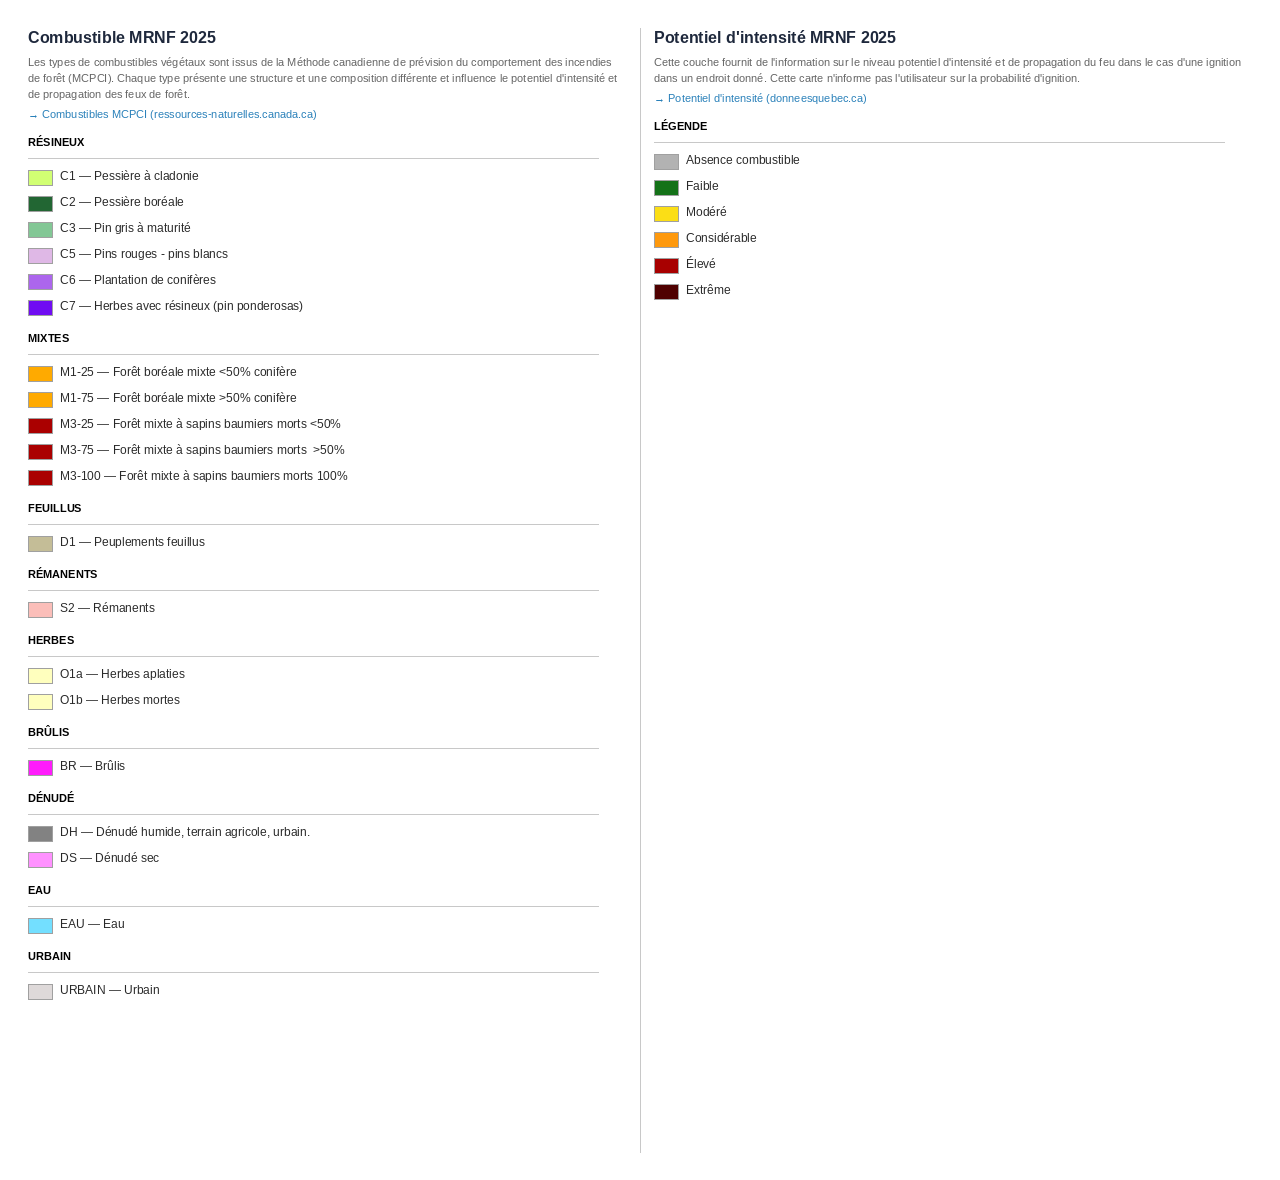
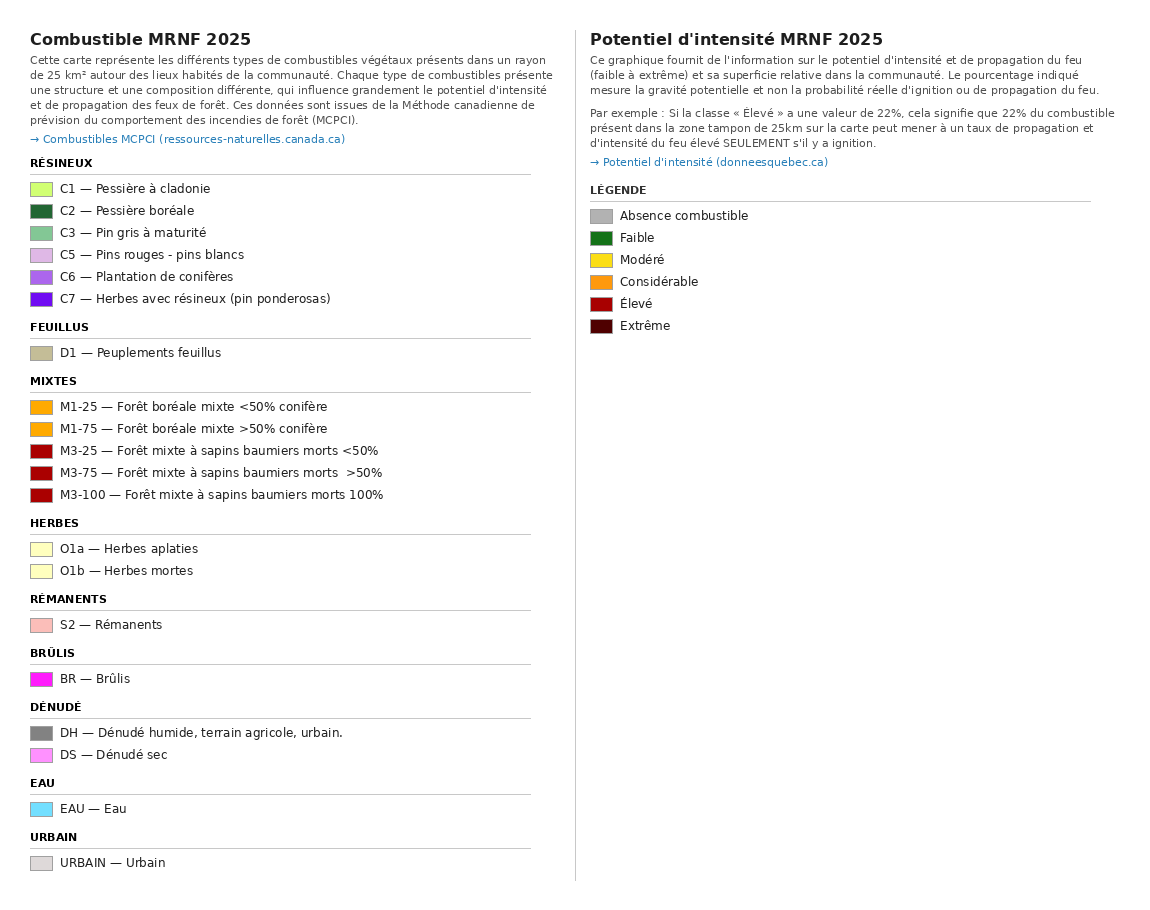
maj introduction et legende fiche communaute

Changed region(s): [[0.0, 0.0, 0.9739, 0.9538]]

diff --git a/index.html b/index.html
@@ -304,15 +304,16 @@
     }
     #btn-download:hover { background: rgba(255,255,255,0.35); }
 
-    /* Bouton légende dans le modal communauté */
-    #btn-legende-modal {
+    /* Bouton légende dans les modals MRC et communauté */
+    #btn-legende-modal-mrc, #btn-legende-modal {
       background: #f1c40f; border: 2px solid #d4ac0d;
       border-radius: 5px; color: #1a252f; font-family: 'Oswald', sans-serif;
       font-size: 14px; font-weight: 700; letter-spacing: 0.6px;
-      padding: 7px 16px; cursor: pointer;
+      padding: 0 16px; cursor: pointer;
       text-decoration: none; transition: background 0.15s; white-space: nowrap;
+      align-self: stretch; display: inline-flex; align-items: center;
     }
-    #btn-legende-modal:hover { background: #d4ac0d; }
+    #btn-legende-modal-mrc:hover, #btn-legende-modal:hover { background: #d4ac0d; }
 
     #btn-close-modal {
       background: none; border: none; color: rgba(255,255,255,0.8);
@@ -338,6 +339,40 @@
       display: none; font-family: 'Source Sans 3', sans-serif;
       color: var(--text-muted); font-size: 13px; text-align: center; padding: 20px;
     }
+
+    /* ── Modal légende MRC ── */
+    #modal-legende-mrc {
+      display: none; position: fixed; inset: 0; z-index: 500;
+      background: rgba(0,0,0,0.65);
+      align-items: center; justify-content: center;
+    }
+    #modal-legende-mrc.open { display: flex; }
+    #modal-legende-mrc-box {
+      background: #fff; border-radius: 10px;
+      width: min(90vw, 560px);
+      display: flex; flex-direction: column;
+      box-shadow: 0 16px 60px rgba(0,0,0,0.3); overflow: hidden;
+    }
+    #modal-legende-mrc-header {
+      display: flex; align-items: center; justify-content: space-between;
+      padding: 12px 16px; background: #2C3E50; flex-shrink: 0;
+    }
+    #modal-legende-mrc-header .ml-title {
+      font-family: 'Oswald', sans-serif; font-size: 14px;
+      letter-spacing: 1px; color: #fff; font-weight: 700; text-transform: uppercase;
+    }
+    #btn-close-legende-mrc {
+      background: none; border: none; color: rgba(255,255,255,0.8);
+      font-size: 20px; cursor: pointer; line-height: 1; padding: 0 4px;
+    }
+    #btn-close-legende-mrc:hover { color: #fff; }
+    #modal-legende-mrc-body {
+      padding: 20px 24px;
+      font-family: 'Source Sans 3', sans-serif; font-size: 21px;
+      line-height: 1.6; color: #333;
+    }
+    #modal-legende-mrc-body p { margin-bottom: 12px; }
+    #modal-legende-mrc-body p:last-child { margin-bottom: 0; }
 
     /* ── Modal légende HTML ── */
     #modal-legende-box {
@@ -449,6 +484,21 @@
     }
     #btn-fermer-popup:hover { background: #1a252f; }
 
+    /* Émulation visuelle du bouton Voir la fiche MRC dans le popup */
+    .btn-mock-mrc {
+      display: inline-block;
+      background: #4a7c4e; color: #fff; border-radius: 6px;
+      font-family: 'Oswald', sans-serif; font-size: 0.85em;
+      letter-spacing: 1px; text-transform: uppercase;
+      padding: 3px 10px; vertical-align: middle;
+    }
+    /* Lien onglet dans le popup */
+    .lien-onglet {
+      color: var(--accent); font-weight: 600; cursor: pointer;
+      text-decoration: underline;
+    }
+    .lien-onglet:hover { color: var(--accent-dark); }
+
     /* Bouton Instructions (pleine largeur dans le panneau) */
     #btn-info {
       width: 100%; background: #2C3E50; border: none; border-radius: 6px;
@@ -495,10 +545,12 @@
       <p> <strong>Les FICHES COMMUNAUTÉ</strong> : la composition en combustible et l’évaluation du potentiel d’intensité et de propagation des feux de forêt à proximité des communautés. </p>
       <br>
       <p><strong><u>INSTRUCTIONS</u></strong></p>
-      <p> Pour consulter les fiches à l’échelle des MRC, cliquez directement sur une MRC dans la carte ou sélectionnez-la dans le menu déroulant « MRC ». Un bouton <strong>« Voir la fiche MRC »</strong> apparaîtra. </p>
-      <p> Une fois une MRC sélectionnée, choisissez la Communauté dans le second menu déroulant, puis sélectionnez le Lieu habité dans le troisième menu. La fiche s’affichera automatiquement. Vous pouvez aussi cliquer directement sur un point dans la carte pour accéder à la fiche du lieu habité correspondant. </p>
+      <p> Pour consulter les fiches à l’échelle des MRC, cliquez directement sur une MRC dans la carte ou sélectionnez-la dans le menu déroulant <strong>« MRC »</strong>. Un bouton <span class="btn-mock-mrc">🗂 Voir la fiche "MRC"</span> apparaîtra. </p>
+      <p> Une fois une MRC sélectionnée, choisissez la <strong>« Communauté »</strong> dans le second menu déroulant, puis sélectionnez le <strong>« Lieu habité »</strong> dans le troisième menu. La fiche s’affichera automatiquement. Vous pouvez aussi cliquer directement sur un point dans la carte pour accéder à la fiche du lieu habité correspondant. </p>
       <p> La carte affiche une couleur de fond de vert à rouge, indiquant l’indice de prédisposition des MRC aux feux de forêt (0 à 6). Plus l’indice est élevé, plus la MRC est prédisposée aux feux. </p>
       <p> Par exemple : une MRC de couleur rouge (indice 4 à 6) indique qu’elle est prédisposée de manière forte aux feux de forêt. </p>
+      <p> <strong>Note</strong> : Cette étude se base sur des données scientifiques pour évaluer la prédisposition des communautés québécoises et autochtones aux feux de forêt selon deux échelles d'analyse : régionale et locale. Pour envisager des actions concrètes pour protéger les communautés, vous adresser aux autorités compétentes. </p>
+      <p> À cet égard, veuillez consulter l'onglet <span class="lien-onglet" onclick="allerOngletRessources()">"RESSOURCES UTILES"</span>.</p>
     </div>
     <div id="popup-footer">
       <button id="btn-fermer-popup">Fermer</button>
@@ -570,7 +622,7 @@
 
       <div id="expo-legend">
         <span class="panel-label">Indice de prédisposition aux feux ℹ</span>
-        <div id="expo-tooltip">L'indice de prédisposition des MRC aux feux de forêt a été déterminée à partir de quatre indicateurs clés : les superficies brûlées historiques, la fréquence des départs de feux historiques, les indices forêt-météo projetés pour la période 2021-2050, et la nature des combustibles actuels. Plus l'indice s'approche de la valeur seuil de 4, plus la MRC est prédisposée aux grands feux.</div>
+        <div id="expo-tooltip">L'indice de prédisposition des MRC aux feux de forêt a été déterminé à partir de 4 indicateurs clés :<br>(1) les superficies historiques brûlées<br>(2) la fréquence des départs de feux historiques<br>(3) les indices forêt-météo projetés pour la période 2021-2050<br>(4) la nature des combustibles actuels.<br><br>Plus l'indice s'approche de la valeur seuil de 6, plus la MRC est prédisposée aux grands feux.</div>
         <div class="legend-bar"></div>
         <div class="legend-labels">
           <span id="expo-min-label">0</span>
@@ -667,7 +719,7 @@
       <div>
         <div class="leg-col-title">Combustible MRNF 2025</div>
         <div class="leg-col-intro">
-          Les types de combustibles végétaux sont issus de la Méthode canadienne de prévision du comportement des incendies de forêt (MCPCI). Chaque type de combustibles présente une structure et une composition différente et influence grandement le potentiel d'intensité et de propagation des feux de forêt.<br/>
+          Cette carte représente les différents types de combustibles végétaux présents dans un rayon de 25 km² autour des lieux habités de la communauté. Chaque type de combustibles présente une structure et une composition différente, qui influence grandement le potentiel d'intensité et de propagation des feux de forêt. Ces données sont issues de la Méthode canadienne de prévision du comportement des incendies de forêt (MCPCI).<br/>
           <a href="https://ressources-naturelles.canada.ca" target="_blank" rel="noopener">→ Combustibles MCPCI (ressources-naturelles.canada.ca)</a>
         </div>
 
@@ -682,33 +734,33 @@
           <div class="leg-row"><div class="leg-swatch" style="background:#700CF2;"></div><span>C7 — Herbes avec résineux (pin ponderosas)</span></div>
         </div>
 
-        <!-- Mixtes -->
-        <div class="leg-section">
-          <div class="leg-section-title">Mixtes</div>
-          <div class="leg-row"><div class="leg-swatch" style="background:#FFAA00;"></div><span>M1-25 — Forêt boréale mixte &lt;50% conifère</span></div>
-          <div class="leg-row"><div class="leg-swatch" style="background:#FFAA00;"></div><span>M1-75 — Forêt boréale mixte &gt;50% conifère</span></div>
-          <div class="leg-row"><div class="leg-swatch" style="background:#AA0000;"></div><span>M3-25 — Forêt mixte à sapins baumiers morts &lt;50%</span></div>
-          <div class="leg-row"><div class="leg-swatch" style="background:#AA0000;"></div><span>M3-75 — Forêt mixte à sapins baumiers morts &gt;50%</span></div>
-          <div class="leg-row"><div class="leg-swatch" style="background:#AA0000;"></div><span>M3-100 — Forêt mixte à sapins baumiers morts 100%</span></div>
-        </div>
-
         <!-- Feuillus -->
         <div class="leg-section">
           <div class="leg-section-title">Feuillus</div>
           <div class="leg-row"><div class="leg-swatch" style="background:#C4BD97;"></div><span>D1 — Peuplements feuillus</span></div>
         </div>
 
-        <!-- Rémanents -->
+        <!-- Mixtes -->
         <div class="leg-section">
-          <div class="leg-section-title">Rémanents</div>
-          <div class="leg-row"><div class="leg-swatch" style="background:#FBBEB9;"></div><span>S2 — Rémanents</span></div>
+          <div class="leg-section-title">Mixtes</div>
+          <div class="leg-row"><div class="leg-swatch" style="background:#FFAA00;"></div><span>M1-25 — Forêt boréale mixte &lt;50% conifère</span></div>
+          <div class="leg-row"><div class="leg-swatch" style="background:#FFAA00;"></div><span>M1-75 — Forêt boréale mixte &gt;50% conifère</span></div>
+          <div class="leg-row"><div class="leg-swatch" style="background:#AA0000;"></div><span>M3-25 — Forêt mixte à sapins baumiers morts &lt;50%</span></div>
+          <div class="leg-row"><div class="leg-swatch" style="background:#AA0000;"></div><span>M3-75 — Forêt mixte à sapins baumiers morts  &gt;50%</span></div>
+          <div class="leg-row"><div class="leg-swatch" style="background:#AA0000;"></div><span>M3-100 — Forêt mixte à sapins baumiers morts 100%</span></div>
         </div>
 
         <!-- Herbes -->
         <div class="leg-section">
           <div class="leg-section-title">Herbes</div>
-          <div class="leg-row"><div class="leg-swatch" style="background:#FFFFBE;"></div><span>O1a — Herbes aplaties</span></div>
+          <div class="leg-row"><div class="leg-swatch" style="background:#E6FFD9;"></div><span>O1a — Herbes aplaties</span></div>
           <div class="leg-row"><div class="leg-swatch" style="background:#FFFFBE;"></div><span>O1b — Herbes mortes</span></div>
+        </div>
+
+        <!-- Rémanents -->
+        <div class="leg-section">
+          <div class="leg-section-title">Rémanents</div>
+          <div class="leg-row"><div class="leg-swatch" style="background:#FBBEB9;"></div><span>S2 — Rémanents</span></div>
         </div>
 
         <!-- Brûlis -->
@@ -720,7 +772,7 @@
         <!-- Dénudé -->
         <div class="leg-section">
           <div class="leg-section-title">Dénudé</div>
-          <div class="leg-row"><div class="leg-swatch" style="background:#828282;"></div><span>DH — Dénudé humide, terrain agricole, urbain</span></div>
+          <div class="leg-row"><div class="leg-swatch" style="background:#828282;"></div><span>DH — Dénudé humide, terrain agricole, urbain.</span></div>
           <div class="leg-row"><div class="leg-swatch" style="background:#FF91FF;"></div><span>DS — Dénudé sec</span></div>
         </div>
 
@@ -741,7 +793,8 @@
       <div>
         <div class="leg-col-title">Potentiel d'intensité MRNF 2025</div>
         <div class="leg-col-intro">
-          Cette couche fournit de l'information sur le niveau potentiel d'intensité et de propagation du feu dans le cas d'une ignition dans un endroit donné. Cette carte n'informe pas l'utilisateur sur la probabilité d'ignition.<br/>
+          Ce graphique fournit de l'information sur le potentiel d'intensité et de propagation du feu (faible à extrême) et sa superficie relative dans la communauté. Le pourcentage indiqué mesure la gravité potentielle et non la probabilité réelle d'ignition ou de propagation du feu.<br/><br/>
+          Par exemple : Si la classe « Élevé » a une valeur de 22%, cela signifie que 22% du combustible présent dans la zone tampon de 25km sur la carte peut mener à un taux de propagation et d'intensité du feu élevé SEULEMENT s'il y a ignition.<br/>
           <a href="https://www.donneesquebec.ca/recherche/dataset/potentiel-d-intensite-et-de-propagation-des-feux-de-foret" target="_blank" rel="noopener">→ Potentiel d'intensité (donneesquebec.ca)</a>
         </div>
 
@@ -760,12 +813,27 @@
   </div>
 </div>
 
+<!-- Modal légende fiche MRC -->
+<div id="modal-legende-mrc">
+  <div id="modal-legende-mrc-box">
+    <div id="modal-legende-mrc-header">
+      <span class="ml-title">Légende — Fiche MRC</span>
+      <button id="btn-close-legende-mrc">✕</button>
+    </div>
+    <div id="modal-legende-mrc-body">
+      <p>Le premier graphique illustre l'évolution annuelle de la fréquence des départs de feux, en distinguant les causes anthropiques (humain) des causes naturelles (foudre).</p>
+      <p>Le deuxième graphique présente les superficies brûlées annuellement.</p>
+    </div>
+  </div>
+</div>
+
 <!-- Modal fiche MRC -->
 <div id="modal-overlay-mrc">
   <div id="modal-box">
     <div id="modal-header">
       <span id="modal-title-mrc">Fiche MRC</span>
       <div id="modal-actions">
+        <button id="btn-legende-modal-mrc">📋 Légende et explication</button>
         <button id="btn-download-mrc" style="display:none;background:rgba(255,255,255,0.2);border:1px solid rgba(255,255,255,0.4);border-radius:5px;color:#fff;font-family:'Source Sans 3',sans-serif;font-size:20px;padding:7px 16px;cursor:pointer;">⬇ Télécharger</button>
         <button id="btn-close-modal-mrc">✕</button>
       </div>
@@ -1385,6 +1453,18 @@ document.getElementById('popup-accueil').addEventListener('click', (e) => {
 });
 document.getElementById('btn-info').addEventListener('click', ouvrirPopup);
 
+// ── Légende fiche MRC ──
+document.getElementById('btn-legende-modal-mrc').addEventListener('click', () => {
+  document.getElementById('modal-legende-mrc').classList.add('open');
+});
+document.getElementById('btn-close-legende-mrc').addEventListener('click', () => {
+  document.getElementById('modal-legende-mrc').classList.remove('open');
+});
+document.getElementById('modal-legende-mrc').addEventListener('click', (e) => {
+  if (e.target === document.getElementById('modal-legende-mrc'))
+    document.getElementById('modal-legende-mrc').classList.remove('open');
+});
+
 // ── Légende fiche communauté ──
 document.getElementById('btn-close-legende').addEventListener('click', () => {
   document.getElementById('modal-legende').classList.remove('open');
@@ -1393,6 +1473,14 @@ document.getElementById('modal-legende').addEventListener('click', (e) => {
   if (e.target === document.getElementById('modal-legende'))
     document.getElementById('modal-legende').classList.remove('open');
 });
+
+function allerOngletRessources() {
+  fermerPopup();
+  document.querySelectorAll('.tab-btn').forEach(b => b.classList.remove('active'));
+  document.querySelectorAll('.tab-pane').forEach(p => p.classList.remove('active'));
+  document.querySelector('.tab-btn[data-tab="ressources"]').classList.add('active');
+  document.getElementById('tab-ressources').classList.add('active');
+}
 
 init().then(() => {
   ouvrirPopup();